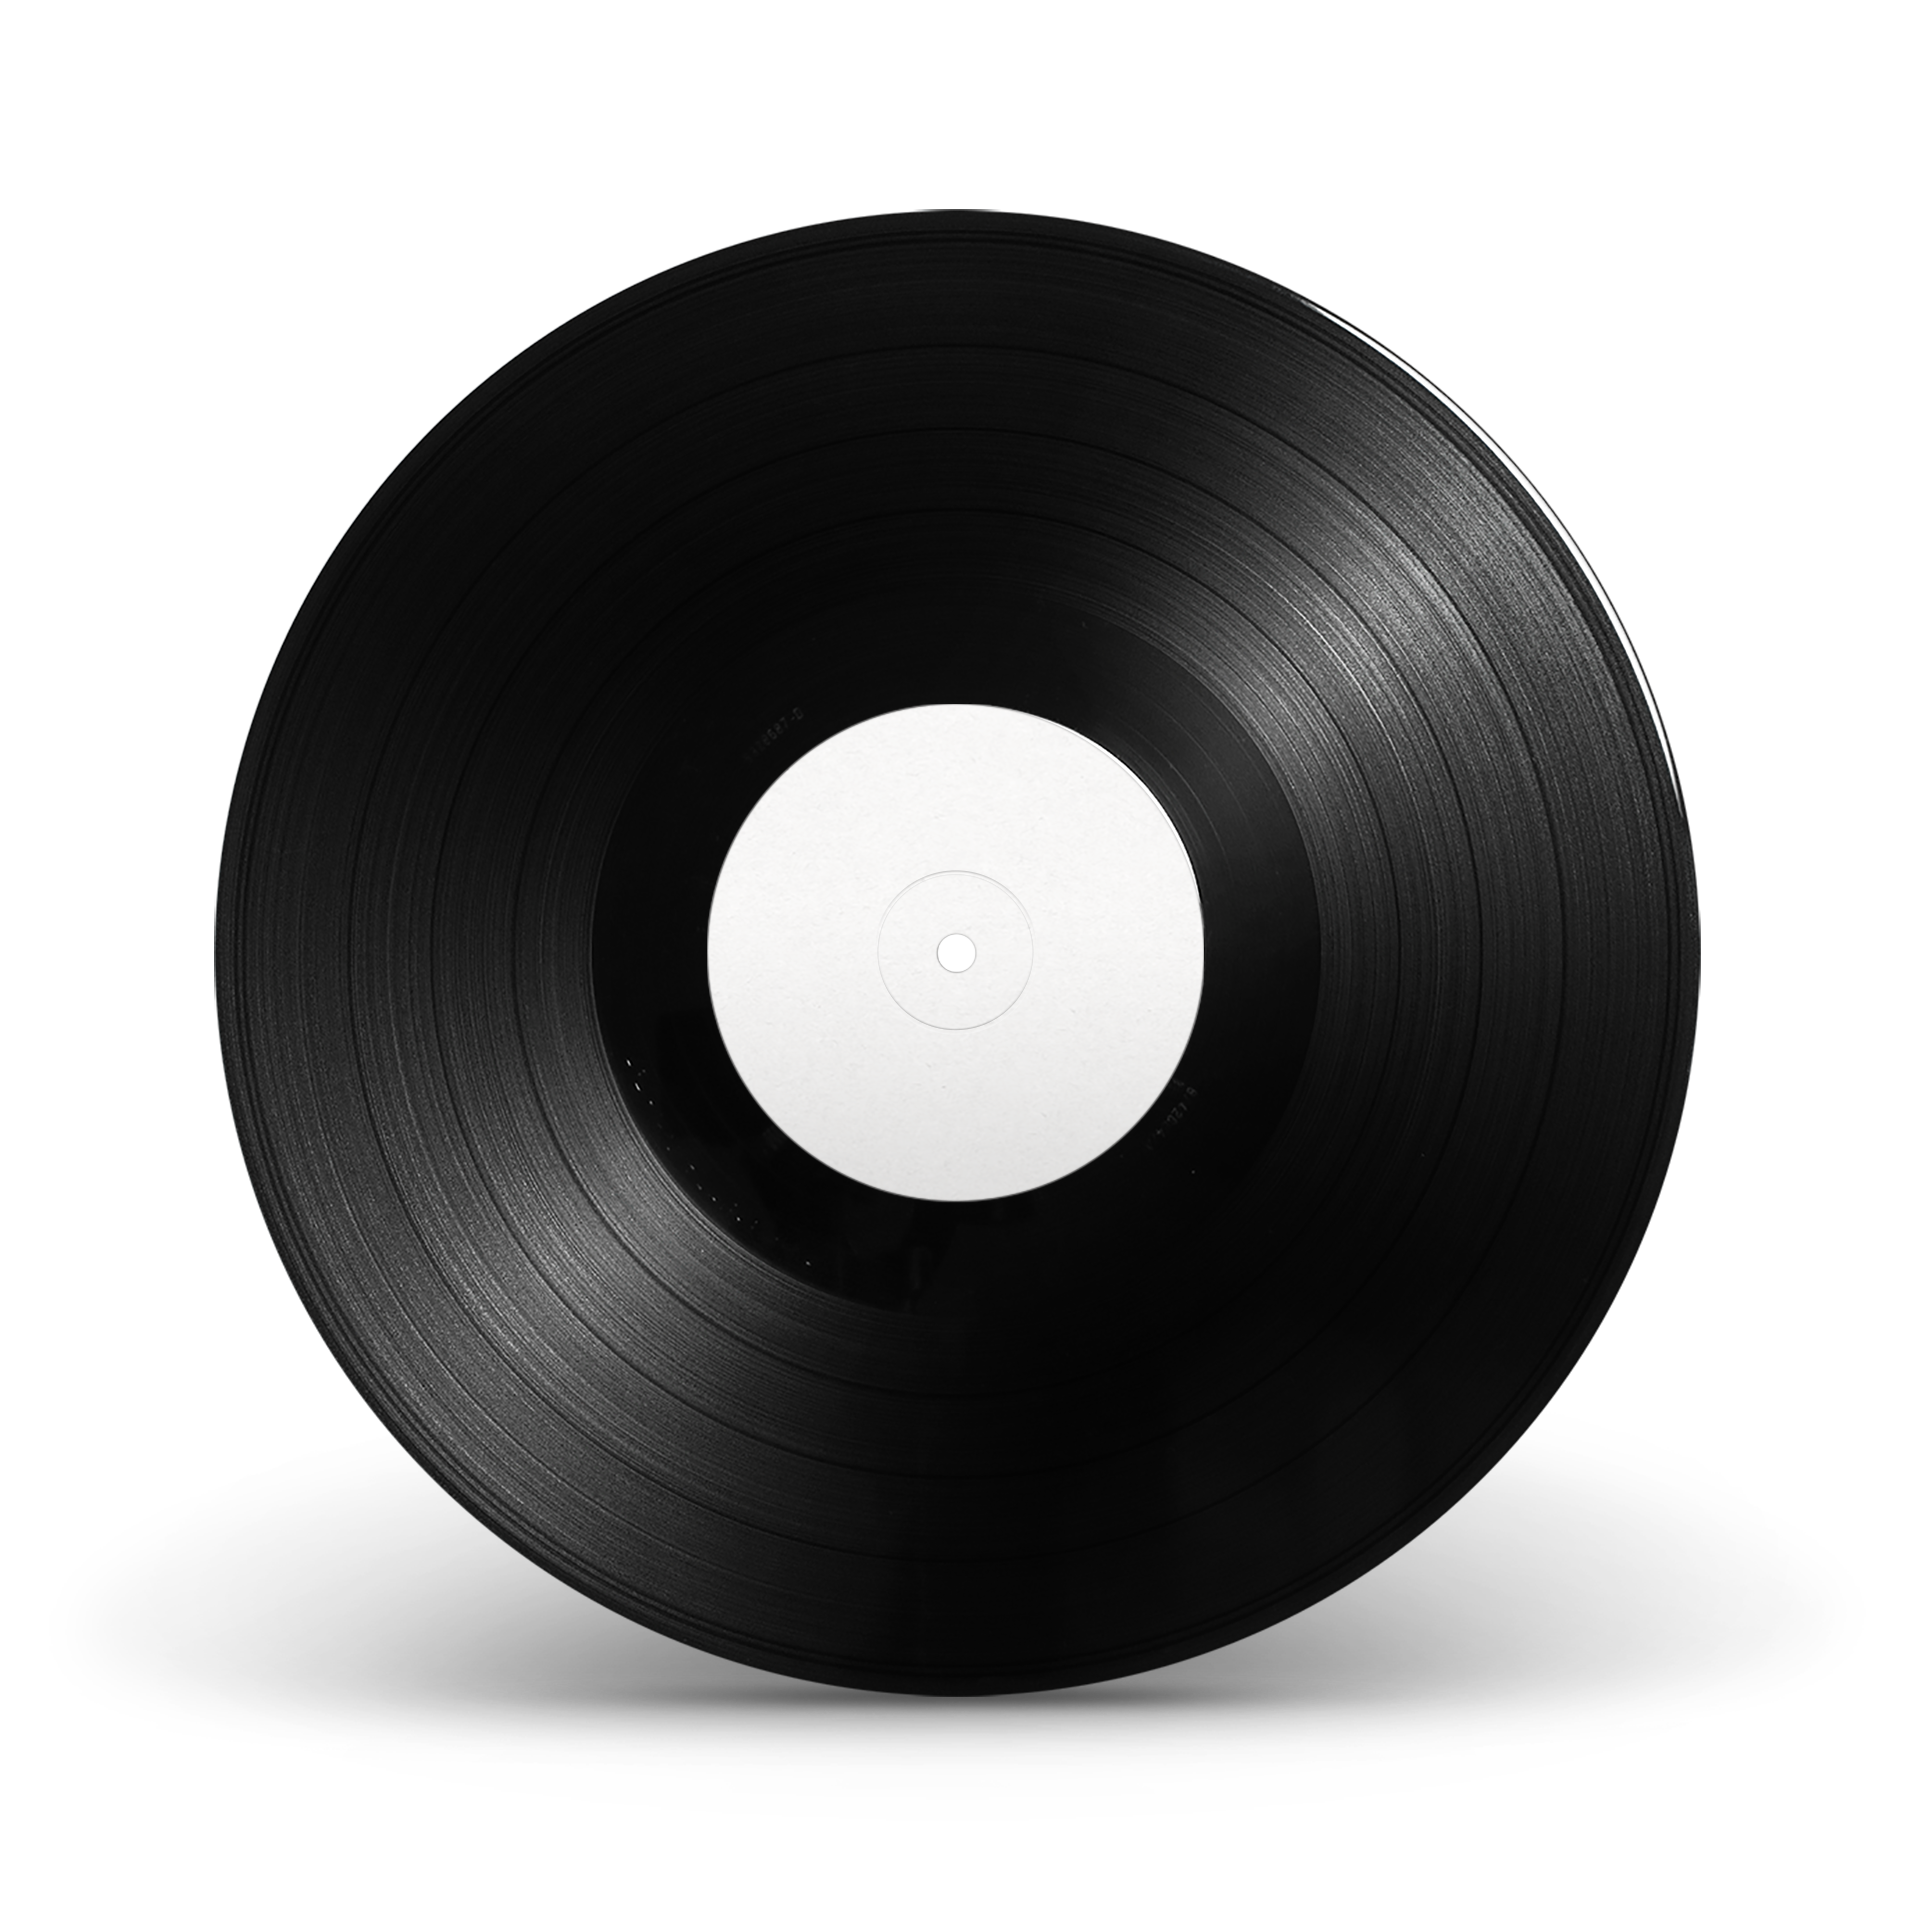
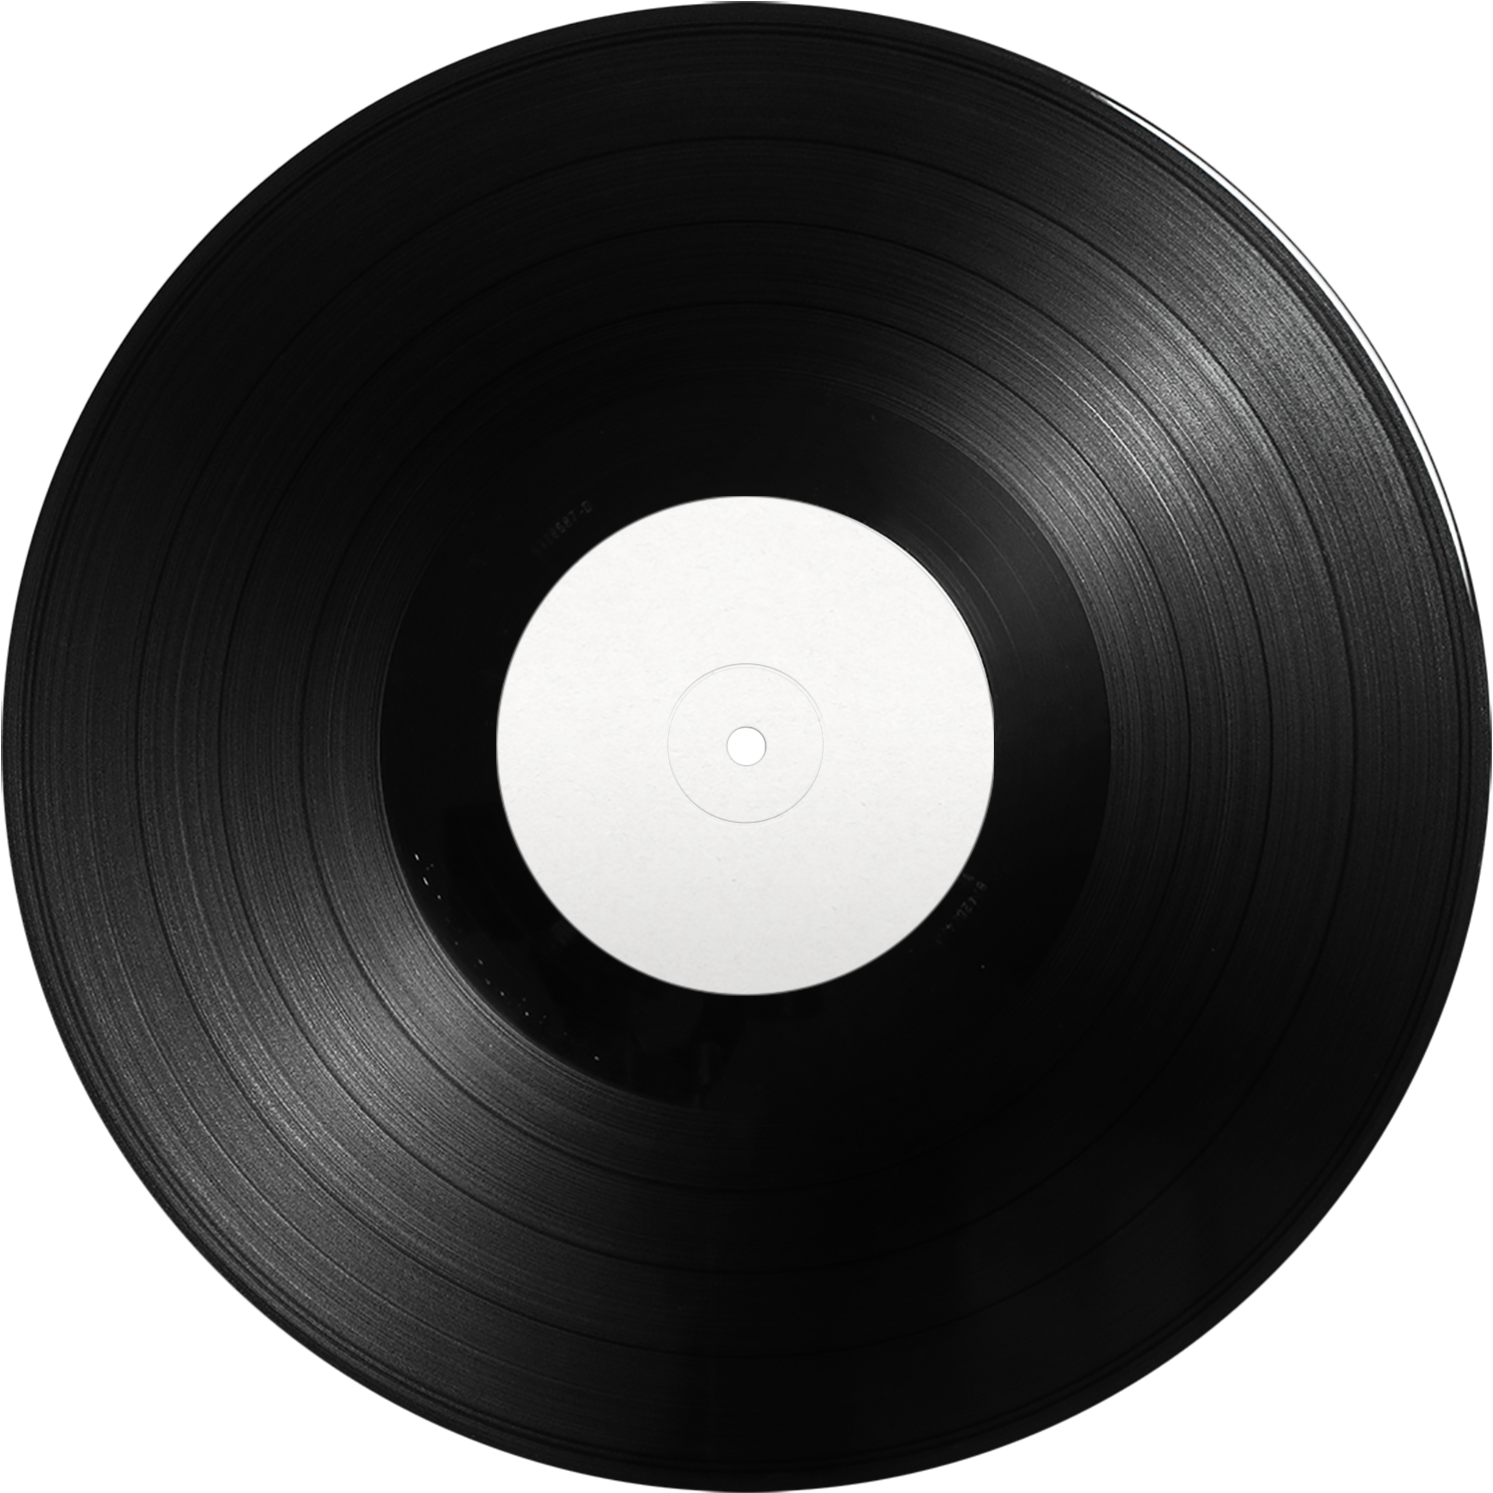
add vinyl png and clean main layout

diff --git a/packages/vinyl_viewer/lib/pages/main-page.dart b/packages/vinyl_viewer/lib/pages/main-page.dart
@@ -21,18 +21,66 @@ class MainPage extends StatefulWidget {
 class _MainPageState extends State<MainPage> {
   Duration _animationDuration = Duration(milliseconds: 300);
   Curve _animationCurve = Curves.easeIn;
-  double _marginVinyl;
-  double _vinylSize;
-  double _leftMarginPlayerButton;
-  double _playerButtonDiameter;
-  double _otherButtonsDiameter;
+  // double _marginVinyl;
+  // double _vinylSize;
+  // double _leftMarginPlayerButton;
+  // double _playerButtonDiameter;
+  // double _otherButtonsDiameter;
+  // double _topPlayerButton;
+  // double _leftPlayerButton;
+
+  // bool _isMobile;
+  // double _distanceLittleButtonsToPlayerButton;
+
   double _screenWidth;
   double _screenHeight;
-  double _topPlayerButton;
-  double _leftPlayerButton;
-  bool _isPortrait;
   bool _isPlaying = false;
-  double _distanceLittleButtonsToPlayerButton;
+
+  double _marginLeftVinyl;
+  double _marginTopVinyl;
+  double _vinylSize;
+
+  double _marginLeftPlayerButton;
+  double _marginTopPlayerButton;
+  double _playerButtonSize;
+
+  double _littleButtonSize;
+  double _littleButtonsVerticalDistance;
+  double _littleButtonsHorizontalDistance;
+
+  // vinyl
+  double get _rigthVinyl => _isMobile ? null : _marginLeftVinyl + _vinylSize;
+  double get _topVinyl => _isMobile ? _marginTopVinyl : null;
+  double get _bottomVinyl => _isMobile ? _marginTopVinyl + _vinylSize : null;
+  double get _leftVinyl => _isMobile ? null : _marginLeftVinyl;
+
+  // play
+  double get _leftPlayerButton =>
+      _isMobile ? null : _rigthVinyl + _marginLeftPlayerButton;
+  double get _topPlayerButton =>
+      _isMobile ? _topVinyl + _marginTopPlayerButton : null;
+
+  // plus
+  double get _leftPlusButton =>
+      _isMobile ? null : _leftPlayerButton - _littleButtonsHorizontalDistance;
+  double get _topPlusButton => _isMobile
+      ? null
+      : ((_screenHeight - _playerButtonSize) / 2) -
+          _littleButtonSize -
+          _littleButtonsVerticalDistance;
+
+  // save
+  double get _leftSaveButton =>
+      _isMobile ? null : _leftPlayerButton - _littleButtonsHorizontalDistance;
+  double get _topSaveButton => _isMobile
+      ? null
+      : (_screenHeight + _playerButtonSize) / 2 +
+          _littleButtonsVerticalDistance;
+
+  bool get _isMobile => _screenWidth / _screenHeight < 3 / 4;
+  bool get _isMediumScreen =>
+      _screenWidth / _screenHeight >= 3 / 4 &&
+      _screenWidth / _screenHeight < 4 / 3;
 
   @override
   Widget build(BuildContext context) {
@@ -123,22 +171,18 @@ class _MainPageState extends State<MainPage> {
 
   Widget _buildVinyl() {
     return AnimatedPositioned(
-      top: _isPortrait ? _marginVinyl : null,
-      left: _isPortrait ? _screenWidth * 0.05 : _marginVinyl,
+      top: _topVinyl,
+      left: _leftVinyl,
       width: _vinylSize,
       height: _vinylSize,
       duration: _animationDuration,
       curve: _animationCurve,
-      // child: UnconstrainedBox(
-      //   child: LimitedBox(
-      //     maxWidth: _vinylSize,
-      //     maxHeight: _vinylSize,
-      child: AspectRatio(
-        aspectRatio: 1,
-        child: Image.asset("assets/images/vinyl.png"),
+      child: Image.asset(
+        "assets/images/vinyl.png",
+        width: _vinylSize,
+        height: _vinylSize,
+        fit: BoxFit.fill,
       ),
-      // ),
-      // ),
     );
   }
 
@@ -153,15 +197,15 @@ class _MainPageState extends State<MainPage> {
           maxHeight: 200,
           maxWidth: 200,
           child: Neumorphic(
-              boxShape: NeumorphicBoxShape.roundRect(
-                  borderRadius: BorderRadius.circular(_playerButtonDiameter)),
-              style: AppTheme.neumorphic,
-              child: AnimatedPlayerButton(
-                  duration: _animationDuration,
-                  diameterCurve: _animationCurve,
-                  colorCurve: _animationCurve,
-                  diameter: _playerButtonDiameter,
-                  color: AppTheme.whiteFake)),
+            boxShape: NeumorphicBoxShape.roundRect(
+                borderRadius: BorderRadius.circular(_playerButtonSize)),
+            style: AppTheme.neumorphic,
+            child: AnimatedPlayerButton(
+                duration: _animationDuration,
+                diameterCurve: _animationCurve,
+                diameter: _playerButtonSize,
+                color: AppTheme.whiteFake),
+          ),
         ),
       ),
     );
@@ -172,21 +216,14 @@ class _MainPageState extends State<MainPage> {
     _buttons.add(AnimatedPositioned(
       duration: _animationDuration,
       curve: _animationCurve,
-      top: _topPlayerButton != null
-          ? _topPlayerButton + _playerButtonDiameter / 2
-          : _screenHeight / 2 -
-              (_otherButtonsDiameter +
-                  _playerButtonDiameter / 2 +
-                  _distanceLittleButtonsToPlayerButton),
-      left: !_isPortrait
-          ? _leftPlayerButton - _otherButtonsDiameter / 2
-          : _leftPlayerButton - _otherButtonsDiameter - 20,
+      top: _topPlusButton,
+      left: _leftPlusButton,
       child: Container(
-        width: _otherButtonsDiameter,
-        height: _otherButtonsDiameter,
+        width: _littleButtonSize,
+        height: _littleButtonSize,
         child: Neumorphic(
           boxShape: NeumorphicBoxShape.roundRect(
-              borderRadius: BorderRadius.circular(_playerButtonDiameter)),
+              borderRadius: BorderRadius.circular(_littleButtonSize)),
           style: AppTheme.neumorphic,
         ),
       ),
@@ -195,61 +232,65 @@ class _MainPageState extends State<MainPage> {
     _buttons.add(AnimatedPositioned(
       duration: _animationDuration,
       curve: _animationCurve,
-      top: _topPlayerButton != null
-          ? _topPlayerButton + _playerButtonDiameter / 2
-          : _screenHeight / 2 +
-              (_playerButtonDiameter / 2 +
-                  _distanceLittleButtonsToPlayerButton),
-      left: !_isPortrait
-          ? _leftPlayerButton - _otherButtonsDiameter / 2
-          : _leftPlayerButton + _playerButtonDiameter + 20,
+      top: _topSaveButton,
+      left: _leftSaveButton,
       child: Container(
-        width: _otherButtonsDiameter,
-        height: _otherButtonsDiameter,
+        width: _littleButtonSize,
+        height: _littleButtonSize,
         child: Neumorphic(
           boxShape: NeumorphicBoxShape.roundRect(
-              borderRadius: BorderRadius.circular(_playerButtonDiameter)),
+              borderRadius: BorderRadius.circular(_littleButtonSize)),
           style: AppTheme.neumorphic,
         ),
       ),
     ));
+
     return _buttons;
+  }
+
+  double _maxMarginLeftPlayerButtonOnPlay() {
+    return _screenWidth - (_rigthVinyl + _playerButtonSize) - 25;
   }
 
   void _calculateSizes() {
     _screenWidth = MediaQuery.of(context).size.width;
     _screenHeight = MediaQuery.of(context).size.height;
-    var minSize = math.min(_screenHeight, _screenWidth);
-    _isPortrait = false;
-    _distanceLittleButtonsToPlayerButton = 0;
-    if (_screenWidth / _screenHeight < 3 / 4) {
-      _isPortrait = true;
-      _vinylSize = _screenWidth * 0.9;
-      _marginVinyl = _screenHeight * 0.05;
-      _leftMarginPlayerButton = _screenHeight * 0.05;
-      _playerButtonDiameter = _screenHeight * 0.2;
-    } else if (_screenWidth / _screenHeight < 4 / 3) {
-      _vinylSize = _screenWidth * 0.65;
-      _marginVinyl = _screenWidth * 0.05;
-      _leftMarginPlayerButton = _screenWidth * 0.05;
-      _playerButtonDiameter = _screenWidth * 0.2;
+
+    _vinylSize = 0;
+    _marginLeftVinyl = 0;
+    _marginTopVinyl = 0;
+
+    _marginLeftPlayerButton = 0;
+    _marginTopPlayerButton = 0;
+
+    _littleButtonSize = 0;
+
+    if (_isMobile) {
     } else {
-      _vinylSize = _isPlaying ? minSize * 1.7 : minSize * 0.75;
-      _marginVinyl = _isPlaying ? -_vinylSize * 0.3 : minSize * 0.2;
-      _leftMarginPlayerButton = _isPlaying ? -minSize * 0.04 : minSize * 0.02;
-      _playerButtonDiameter = minSize * 0.2;
-      _distanceLittleButtonsToPlayerButton = _isPlaying ? 75 : 28;
+      _calculeDesktopSizes();
+    }
+  }
+
+  void _calculeDesktopSizes() {
+    if (_isMediumScreen) {
+      _vinylSize = _isPlaying ? _screenHeight * 1.2 : _screenHeight * 0.7;
+    } else {
+      _vinylSize = _isPlaying ? _screenHeight * 1.6 : _screenHeight * 0.85;
     }
 
-    _topPlayerButton = _isPortrait
-        ? _marginVinyl + _vinylSize + _leftMarginPlayerButton
-        : null;
-    _leftPlayerButton = _isPortrait
-        ? (_screenWidth - _playerButtonDiameter) / 2
-        : _marginVinyl + _vinylSize + _leftMarginPlayerButton;
+    _marginLeftVinyl = _isPlaying ? -_vinylSize * 0.25 : _screenWidth * 0.1;
+    _playerButtonSize = _screenWidth * 0.2;
+    _playerButtonSize = math.min(200, _playerButtonSize);
+    _marginLeftPlayerButton =
+        _isPlaying ? _screenWidth * 0.095 : _screenWidth * 0.06;
+    _marginLeftPlayerButton =
+        math.min(_maxMarginLeftPlayerButtonOnPlay(), _marginLeftPlayerButton);
 
-    _playerButtonDiameter = math.min(_playerButtonDiameter, 200);
-    _otherButtonsDiameter = _playerButtonDiameter * 0.321;
+    _littleButtonSize = _playerButtonSize * 0.4;
+    _littleButtonsVerticalDistance =
+        _isPlaying ? _screenHeight * 0.15 : _screenHeight * 0.05;
+    _littleButtonsHorizontalDistance =
+        _isPlaying ? _littleButtonSize * 0.3 : _littleButtonSize * 0.75;
   }
 
   void _onPlayerStateChange(BuildContext context, PlayerState state) {

diff --git a/packages/vinyl_viewer/lib/widgets/platinette_button/animated_player_button.dart b/packages/vinyl_viewer/lib/widgets/platinette_button/animated_player_button.dart
@@ -5,7 +5,6 @@ import 'player_button.dart';
 class AnimatedPlayerButton extends StatefulWidget {
   final Duration duration;
   final Curve diameterCurve;
-  final Curve colorCurve;
   final double diameter;
   final Color color;
 
@@ -15,7 +14,6 @@ class AnimatedPlayerButton extends StatefulWidget {
     @required this.diameter,
     @required this.color,
     this.diameterCurve = Curves.linear,
-    this.colorCurve = Curves.linear,
   }) : super(key: key);
 
   @override
@@ -28,7 +26,6 @@ class _AnimatedPlayerButtonState extends State<AnimatedPlayerButton>
   Curve _diameterCurve;
   Curve _colorCurve;
   Animation _diameterAnimation;
-  Animation _colorAnimation;
 
   @override
   void initState() {
@@ -42,17 +39,9 @@ class _AnimatedPlayerButtonState extends State<AnimatedPlayerButton>
     } else {
       _diameterCurve = widget.diameterCurve;
     }
-    if (widget.colorCurve == null) {
-      _colorCurve = Curves.linear;
-    } else {
-      _colorCurve = widget.colorCurve;
-    }
-
     _controller = AnimationController(vsync: this, duration: widget.duration);
     _diameterAnimation = Tween(begin: widget.diameter, end: widget.diameter)
         .animate(_controller);
-    _colorAnimation =
-        Tween(begin: widget.color, end: widget.color).animate(_controller);
   }
 
   @override
@@ -63,17 +52,10 @@ class _AnimatedPlayerButtonState extends State<AnimatedPlayerButton>
 
   @override
   void didUpdateWidget(AnimatedPlayerButton oldWidget) {
-    if (oldWidget.diameter != widget.diameter ||
-        oldWidget.color != widget.color) {
-      if (oldWidget.diameter != widget.diameter) {
-        _diameterAnimation =
-            Tween(begin: oldWidget.diameter, end: widget.diameter).animate(
-                CurvedAnimation(parent: _controller, curve: _diameterCurve));
-      }
-      if (oldWidget.color != widget.color) {
-        _colorAnimation = Tween(begin: oldWidget.color, end: widget.color)
-            .animate(CurvedAnimation(parent: _controller, curve: _colorCurve));
-      }
+    if (oldWidget.diameter != widget.diameter) {
+      _diameterAnimation = Tween(
+              begin: oldWidget.diameter, end: widget.diameter)
+          .animate(CurvedAnimation(parent: _controller, curve: _diameterCurve));
       _controller.forward(from: 0);
     }
     super.didUpdateWidget(oldWidget);
@@ -86,7 +68,7 @@ class _AnimatedPlayerButtonState extends State<AnimatedPlayerButton>
       builder: (context, child) {
         return PlayerButton(
           diameter: _diameterAnimation.value,
-          color: _colorAnimation.value,
+          color: widget.color,
         );
       },
     );
